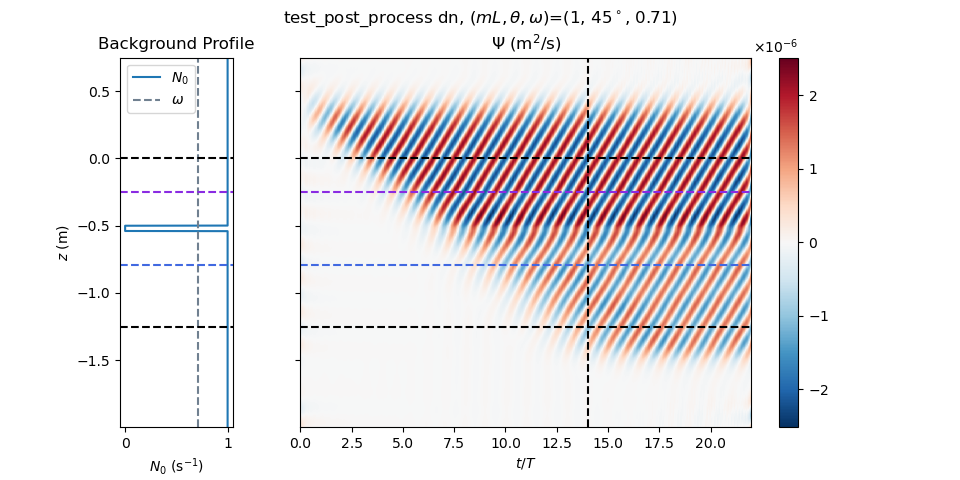
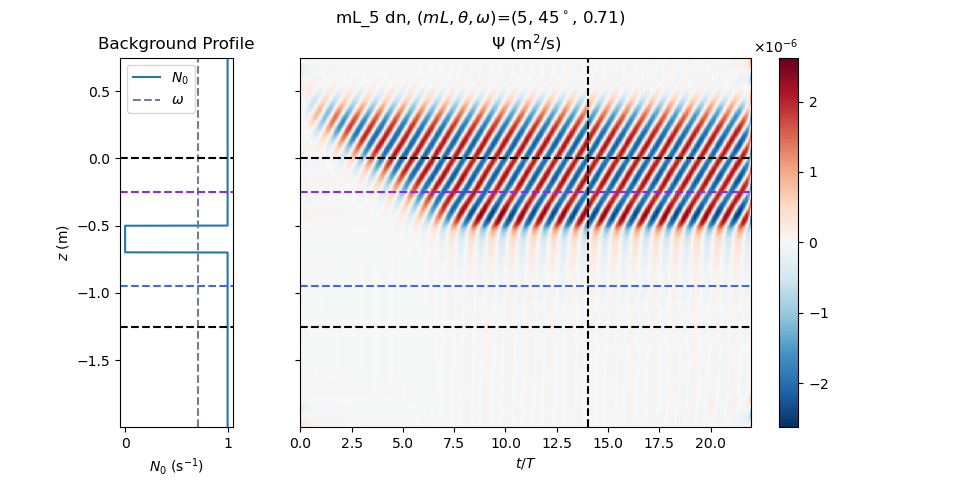
Plotting transmission coefficient of sim and ana, pretty close

diff --git a/plot_T_vs_mL.py b/plot_T_vs_mL.py
@@ -1,0 +1,67 @@
+"""
+
+This script plots:
+    Simulated and analytical values of the transmission coefficient
+
+"""
+
+import numpy as np
+import matplotlib.pyplot as plt
+
+###############################################################################
+# Import SwitchBoard Parameters (sbp)
+#   This import assumes the switchboard is in the same directory as the core code
+import switchboard as sbp
+# Add functions in helper file
+import helper_functions as hf
+
+# Physical parameters
+nu          = sbp.nu            # [m^2/s] Viscosity (momentum diffusivity)
+#kappa       = sbp.kappa         # [m^2/s] Thermal diffusivity
+f_0         = sbp.f_0           # [s^-1]        Reference Coriolis parameter
+g           = sbp.g             # [m/s^2] Acceleration due to gravity
+# Problem parameters
+theta       = sbp.theta         # [rad]         Propagation angle from vertical
+omega       = sbp.omega         # [rad s^-1]    Wave frequency
+
+###############################################################################
+# Get depth and wavenumber axes
+z           = sbp.z
+ks          = sbp.ks
+
+mL_array = [0, 1, 2, 3, 4, 5]
+sim_data = [1.0087048549269324,
+            0.4627298453648014,
+            0.10604904571929356,
+            0.024508789111336624,
+            0.008528472600904731,
+            0.00428457274527059]
+
+def plot_T_vs_mL(mL_array, sim_data, theta, omega, title_str='Transmission Coefficient', filename='f_1D_T_vs_mL.png'):
+    """
+    Plots the amplitude of the downward propagating wave as a function of time
+        for both the incident and transmission depths
+
+    mL_array    1D array of mL values used in simulations
+    sim_data    1D array of measured transmission coefficients for values in mL_array
+    theta       Angle at which wave is incident on stratification structure
+    omega       frequency of wave
+    """
+    # Set figure and axes for plot
+    fig, axes = hf.set_fig_axes([1], [1])
+    # Create array of analytical function
+    mL_ana = np.linspace(mL_array[0], mL_array[-1], 100)
+    ana_data = hf.SY_eq2_4(theta, mL_ana)
+    # Plot line for analytical solution
+    axes.plot(mL_ana, ana_data, color='black', label=r'$\mathbb{T}_{ana}$')
+    # Plot points from measurements in simulations
+    axes.plot(mL_array, sim_data, color='red', marker='o', label=r'$\mathbb{T}_{sim}$')
+    axes.legend()
+    # Add labels and titles
+    axes.set_xlabel(r'$mL$')
+    axes.set_ylabel(r'$\mathbb{T}$')
+    plt.title(r'%s for $\theta=$%s' %(title_str, hf.rad_to_degs(theta)))
+    #plt.show()
+    plt.savefig(filename)
+
+plot_T_vs_mL(mL_array, sim_data, theta, omega)

diff --git a/switchboard.py b/switchboard.py
@@ -15,7 +15,7 @@ from dedalus import public as de
 
 # Relevant parameters
 nz      = 1024                  # [] number of grid points in the z direction in display domain
-mL      = 1                     # [] vertical wave number times step length
+mL      = 5                     # [] vertical wave number times step length
 theta   = None                  # [] angle between wave's propagation and horizontal (or vertical?)
 
 # Time parameters
